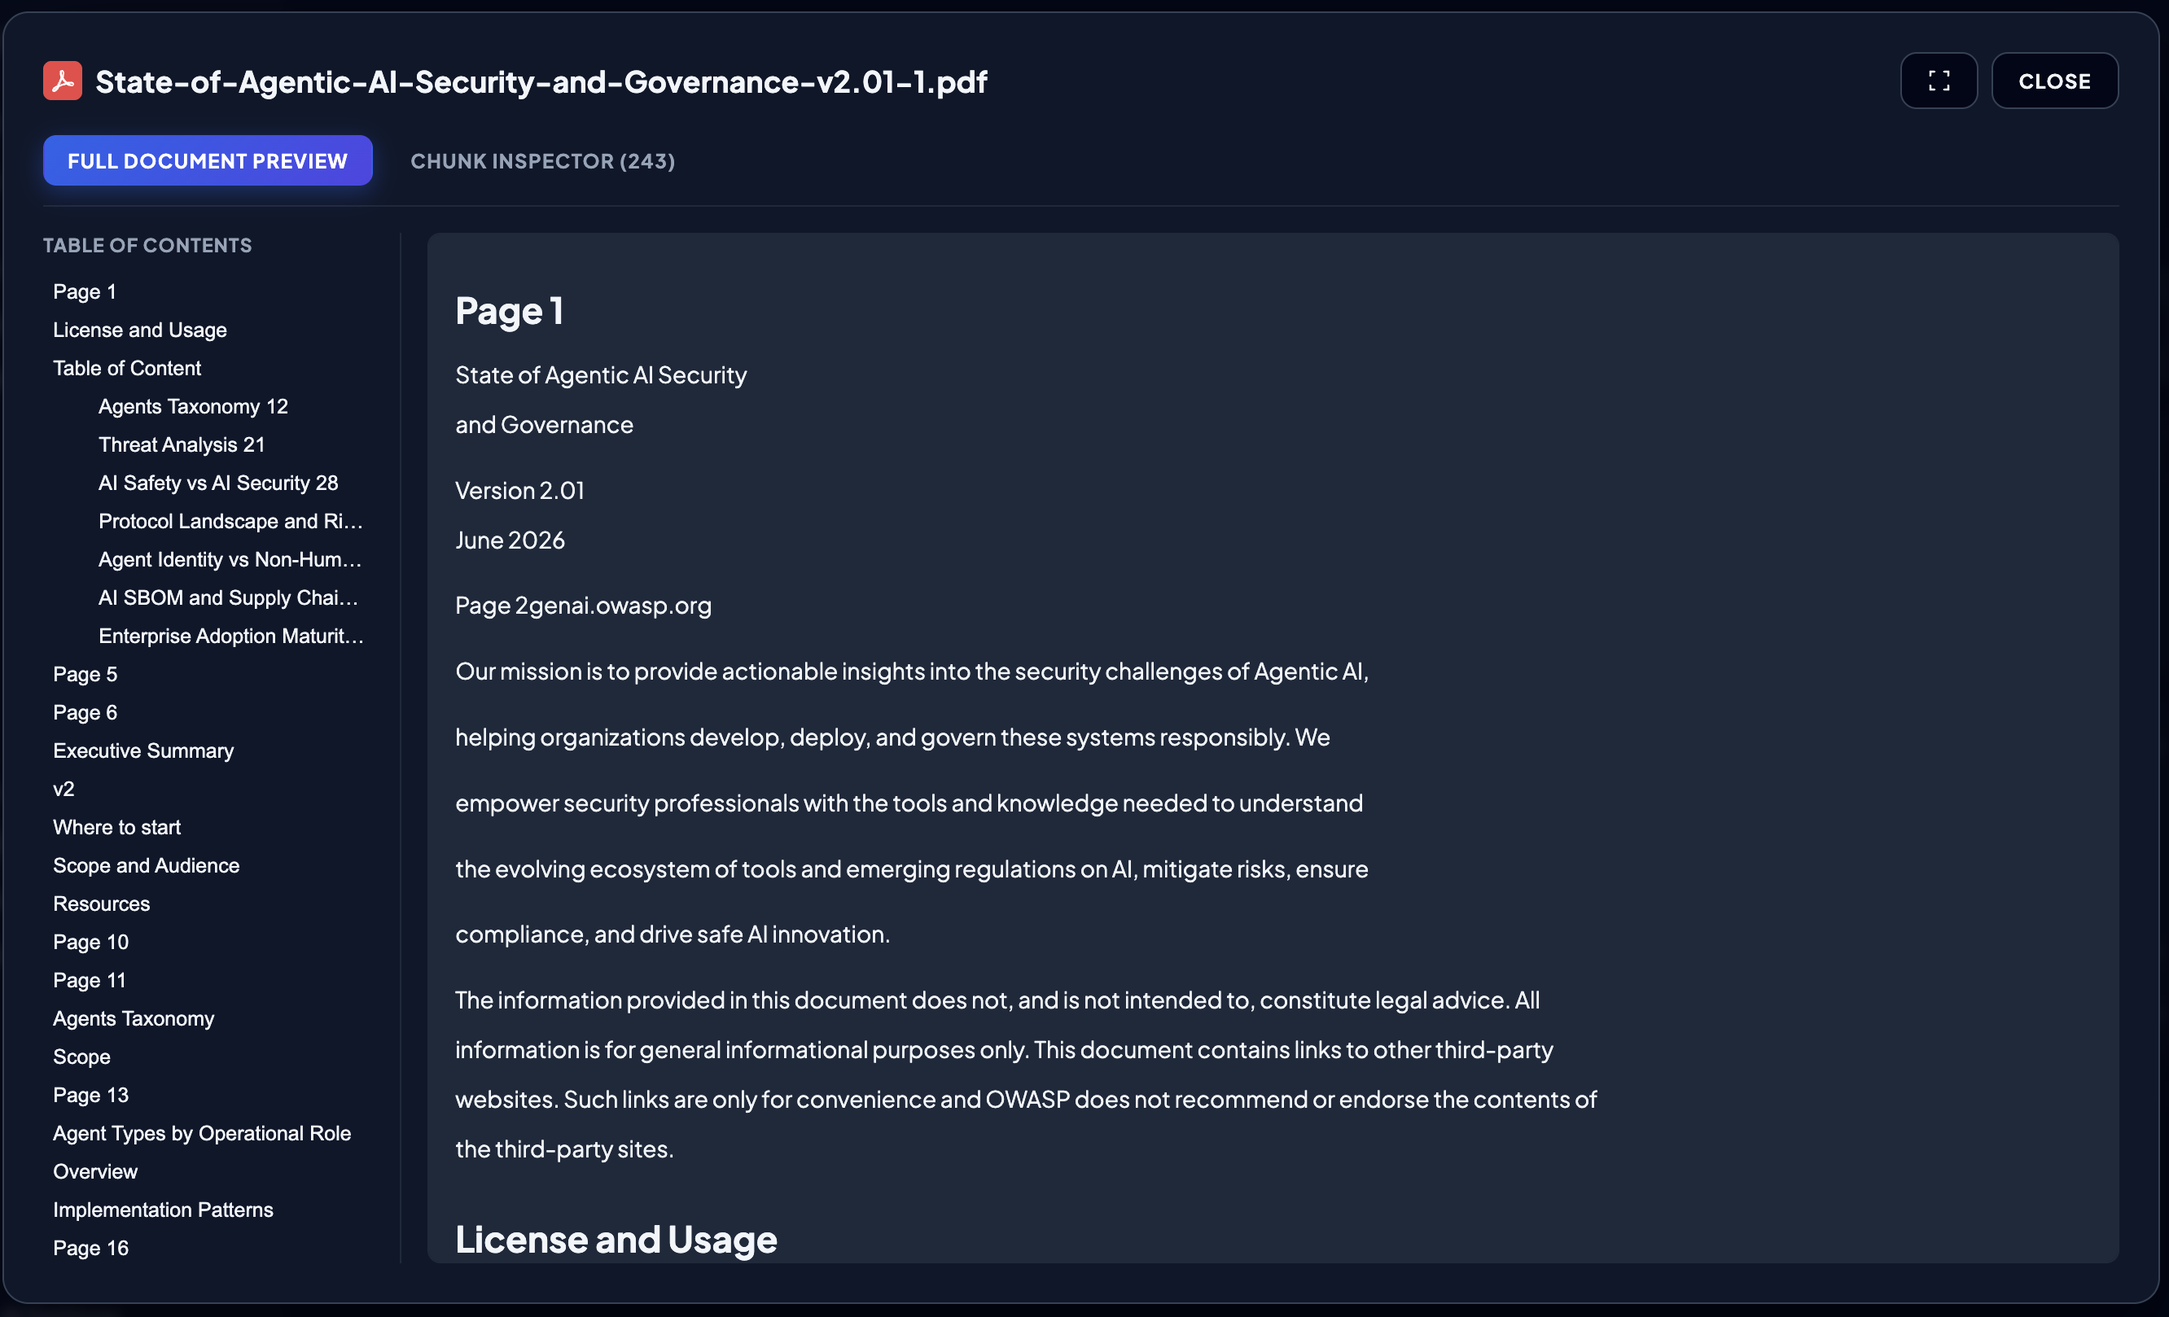
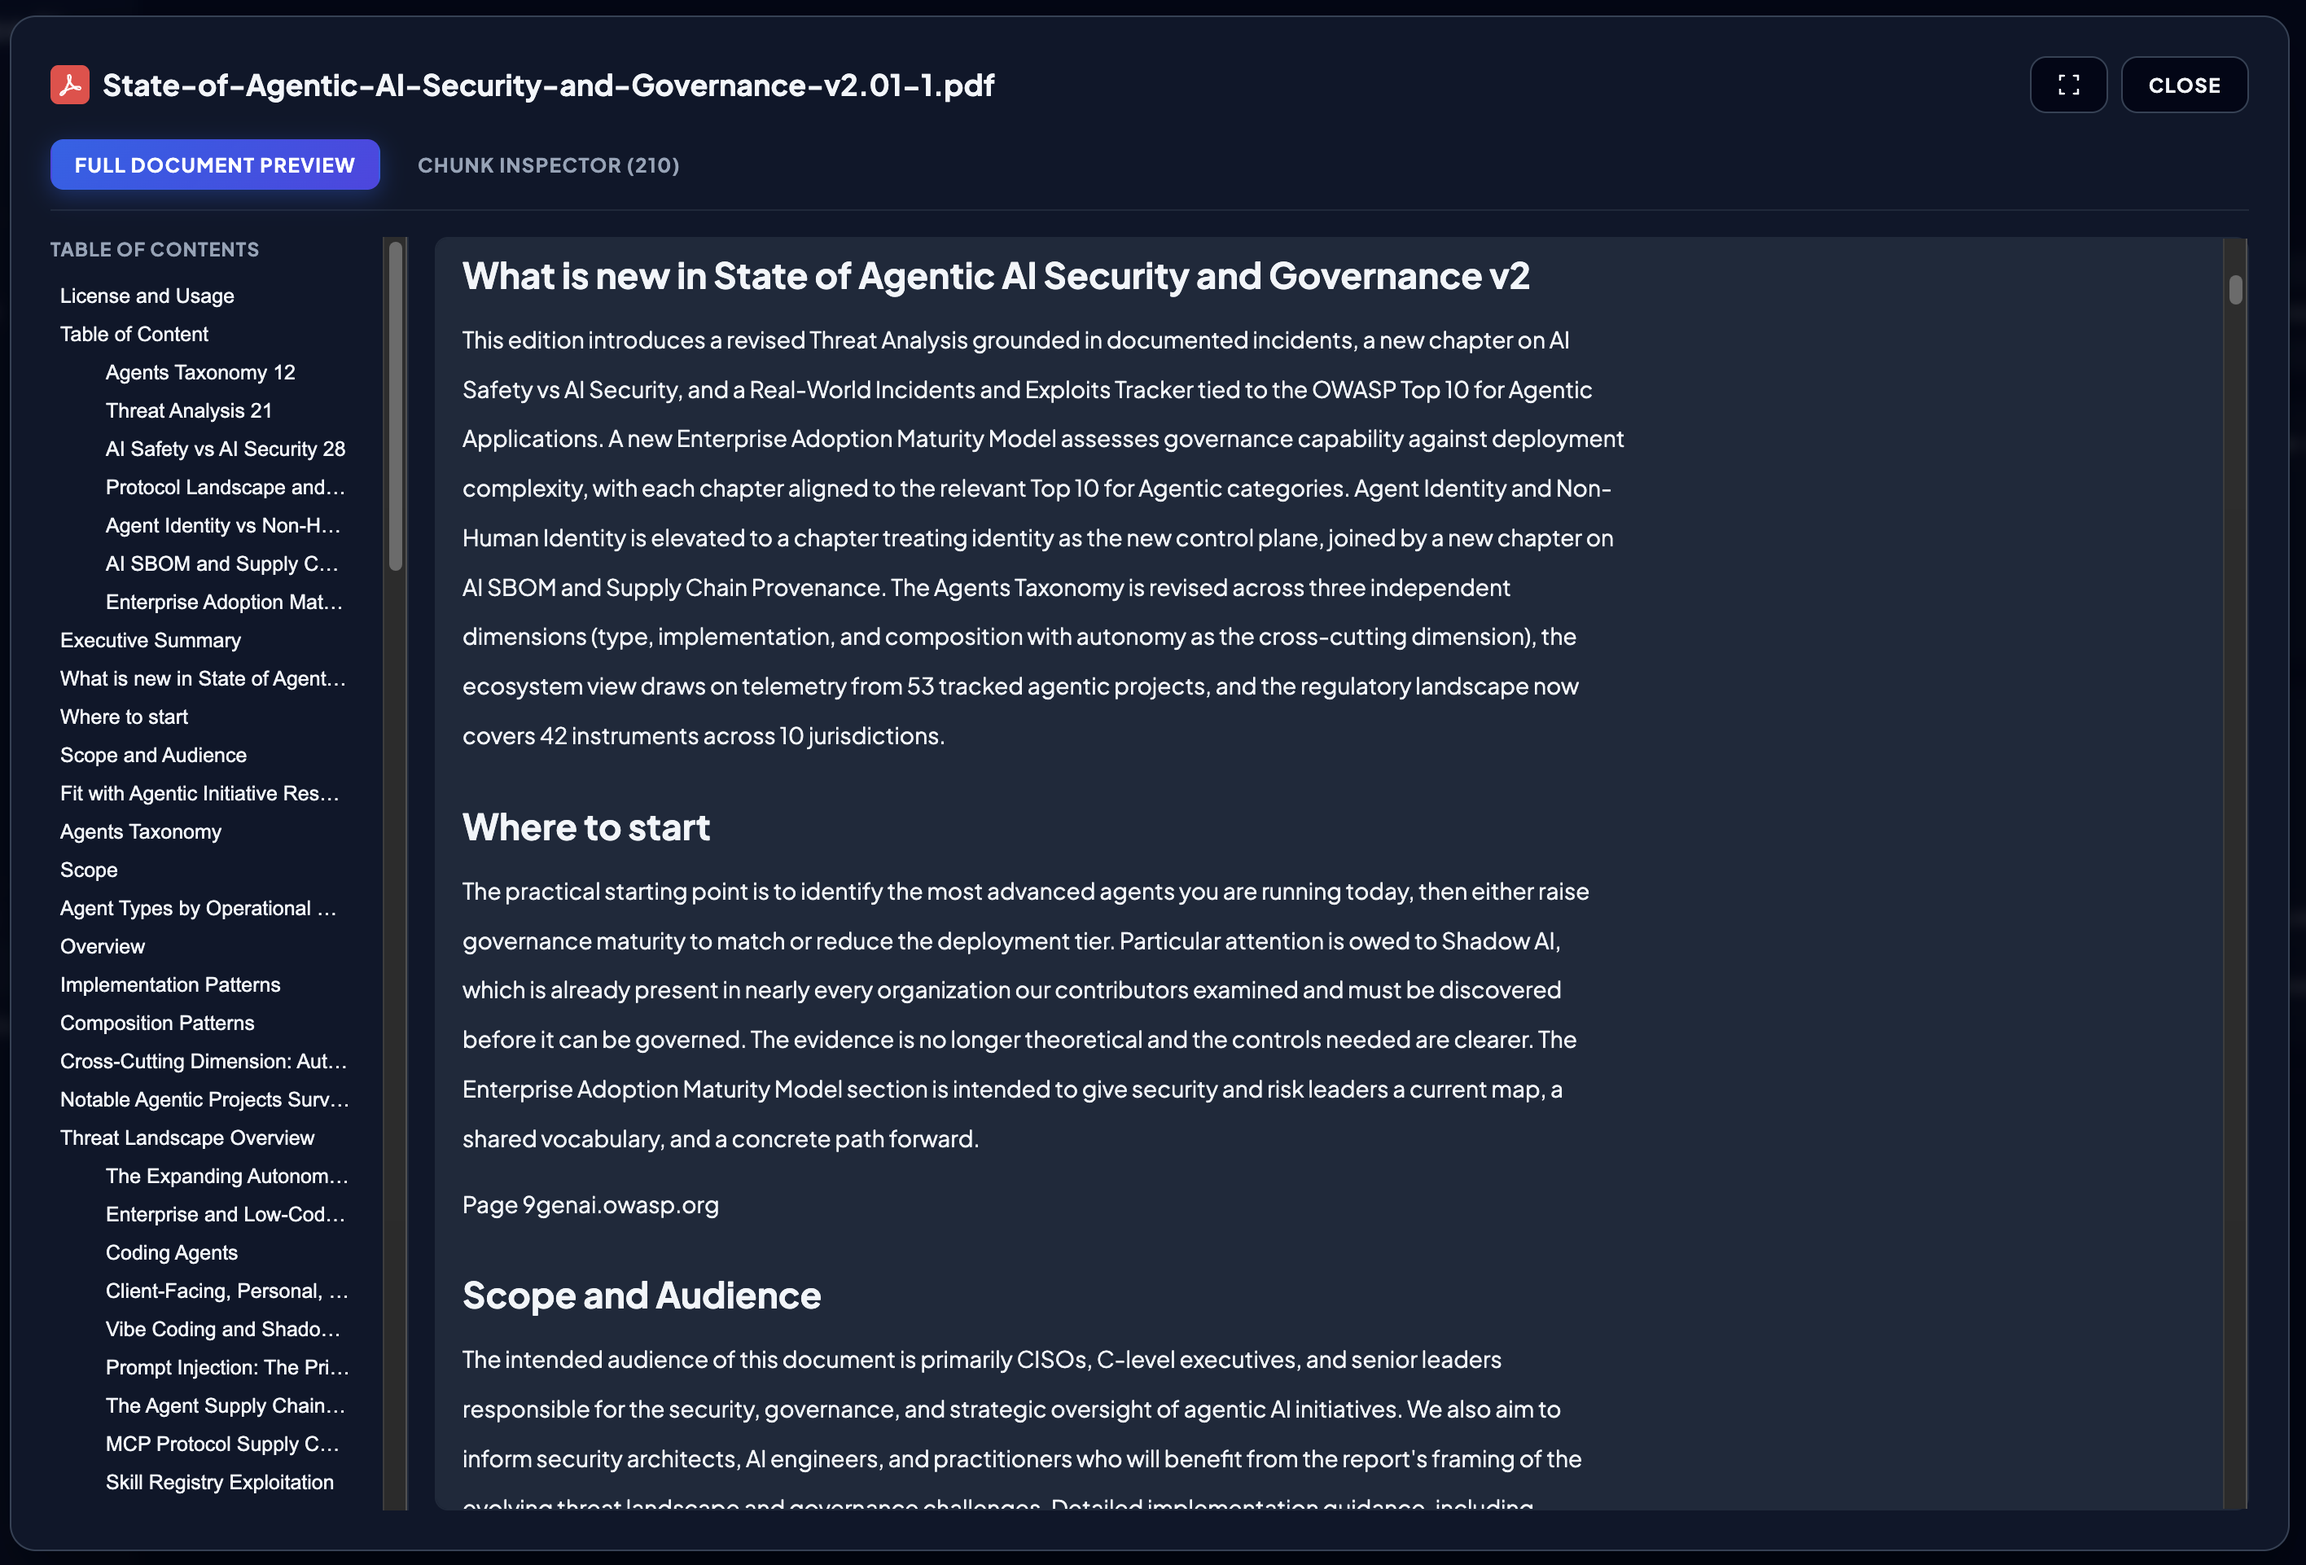
update readme img.

diff --git a/README.md b/README.md
@@ -83,9 +83,11 @@ xattr -d com.apple.quarantine "/Applications/Open Office Ai.app"
   * **Target Scope**: Filter between **Chunks / Passages** and **Documents** (aggregated).
   * **Term Highlighting**: Automatically highlights matching query keywords in yellow (`<mark>`) across header paths and retrieved text passages.
 
+![Screenshot](./ing/Screenshot5.png)
+
 ### 4. Reusable AI Skills (Slash Commands)
 * **Skills Library**: Create, modify, and delete reusable AI skills in a dedicated tab.
-* **Slash Autocomplete**: Recall skills on demand in the chatbot using the `/` command. Autocomplete lists available skills as you type (e.g., typing `/R` filters down to `/RFx_Analyzer`), preventing typing mistakes.
+* **Slash Autocomplete**: Recall skills on demand in the chatbot using the `/` command. Autocomplete lists available skills as you type (e.g., typing `/C` filters down to `/Contract_Analyzer`), preventing typing mistakes.
 
 ### 5. LLM, Search & Embedding Configuration
 * **Custom Endpoints**: Configure custom OpenAI-compatible endpoints, local Ollama instances, and API keys for both LLM reasoning and embedding models.
